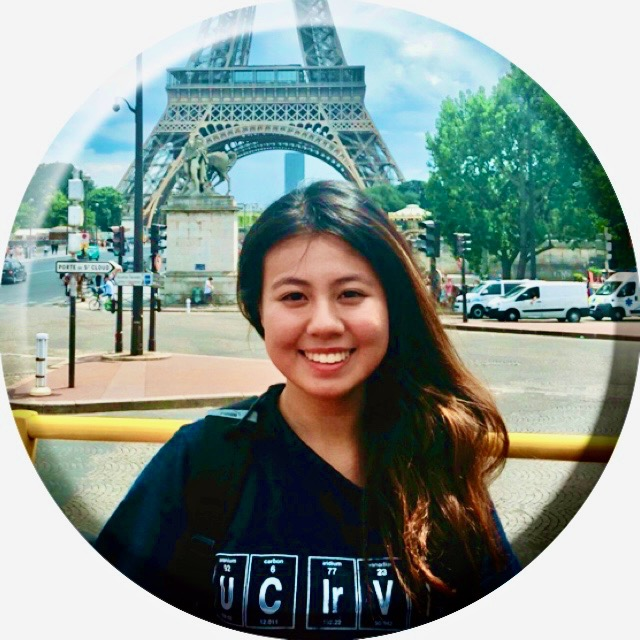
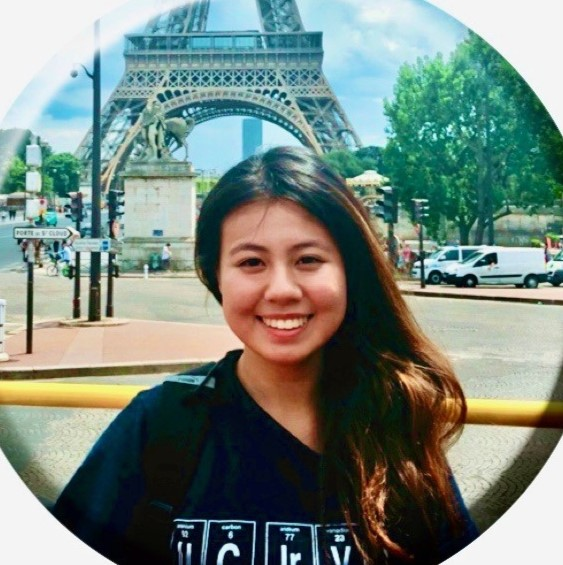
update team page with new headshots

diff --git a/team.html b/team.html
@@ -303,7 +303,7 @@
                     <div class="row">
                         <div class="col-xl-3 col-lg-6">
                             <div class="card">
-                                <img class="headshot" src="img\headshots\unknown.png" alt="Avatar">
+                                <img class="headshot" src="img\headshots\seongjin_yoon.jpg" alt="Avatar">
                                 <div style="margin: 10px 0; padding-bottom: 1px;">
                                     <a href="https://www.linkedin.com/in/seongjinyoon/"><i class="fab fa-linkedin fa-lg" style="padding-right:5px;"></i></a>
                                     <!-- <a href="#"><i class="fab fa-github fa-lg" style="padding-right:5px;"></i></a> -->
@@ -321,7 +321,7 @@
                     <!-- Team Section -- End of Third Row -->
                         <div class="col-xl-3 col-lg-6">
                             <div class="card">
-                                <img class="headshot" src="img\headshots\unknown.png" alt="Avatar">
+                                <img class="headshot" src="img\headshots\yue_wu.jpg" alt="Avatar">
                                 <div style="margin: 10px 0; padding-bottom: 1px;">
                                     <a href="https://www.linkedin.com/in/yue-wu-b2bab8225/"><i class="fab fa-linkedin fa-lg" style="padding-right:5px;"></i></a>
                                     <!-- <a href="#"><i class="fab fa-github fa-lg" style="padding-right:5px;"></i></a> -->
@@ -374,7 +374,7 @@
                     <div class="row">
                         <div class="col-xl-3 col-lg-6">
                             <div class="card">
-                                <img class="headshot" src="img\headshots\unknown.png" alt="Avatar">
+                                <img class="headshot" src="img\headshots\randy_huynh.jpg" alt="Avatar">
                                 <div style="margin: 10px 0; padding-bottom: 1px;">
                                     <a href="https://www.linkedin.com/in/randylhuynh/"><i class="fab fa-linkedin fa-lg" style="padding-right:5px;"></i></a>
                                     <!-- <a href="#"><i class="fab fa-github fa-lg" style="padding-right:5px;"></i></a> -->
@@ -391,7 +391,7 @@
                         </div>
                         <div class="col-xl-3 col-lg-6">
                             <div class="card">
-                                <img class="headshot" src="img\headshots\unknown.png" alt="Avatar">
+                                <img class="headshot" src="img\headshots\douglas_hong.jpg" alt="Avatar">
                                 <div style="margin: 10px 0; padding-bottom: 1px;">
                                     <a href="https://www.linkedin.com/in/douglashong19/"><i class="fab fa-linkedin fa-lg" style="padding-right:5px;"></i></a>
                                     <!-- <a href="#"><i class="fab fa-github fa-lg" style="padding-right:5px;"></i></a> -->
